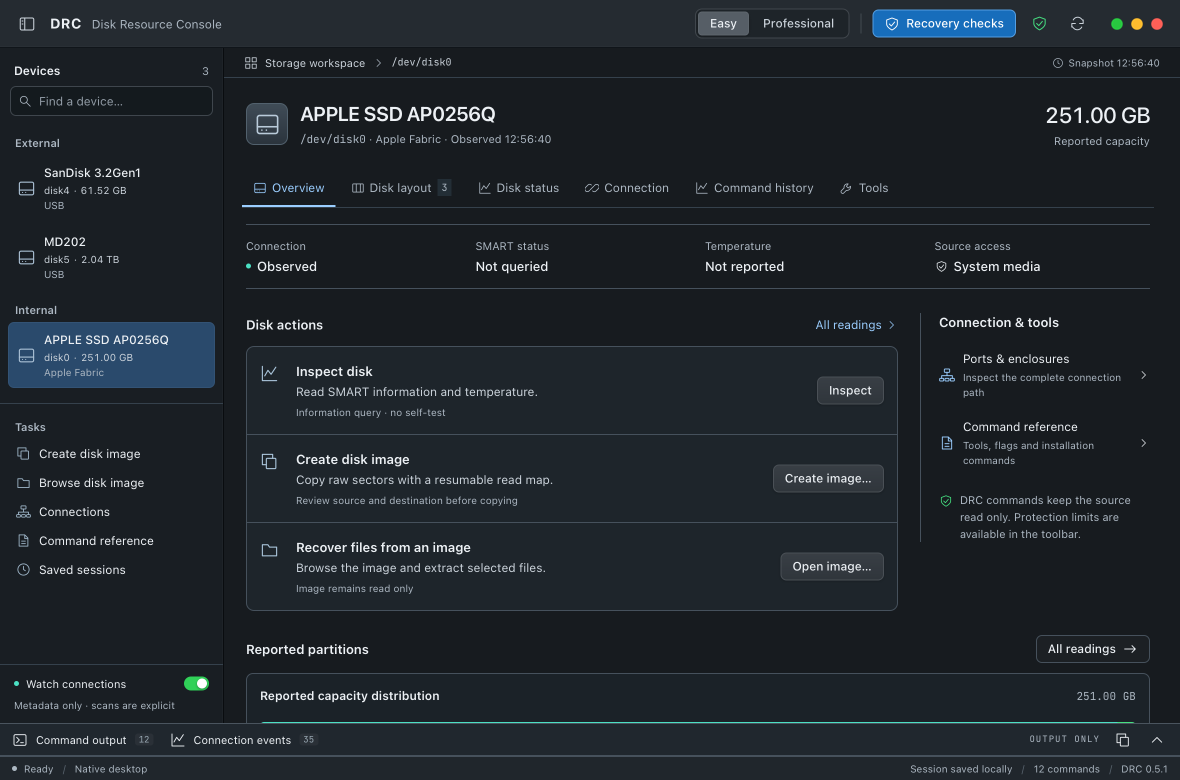
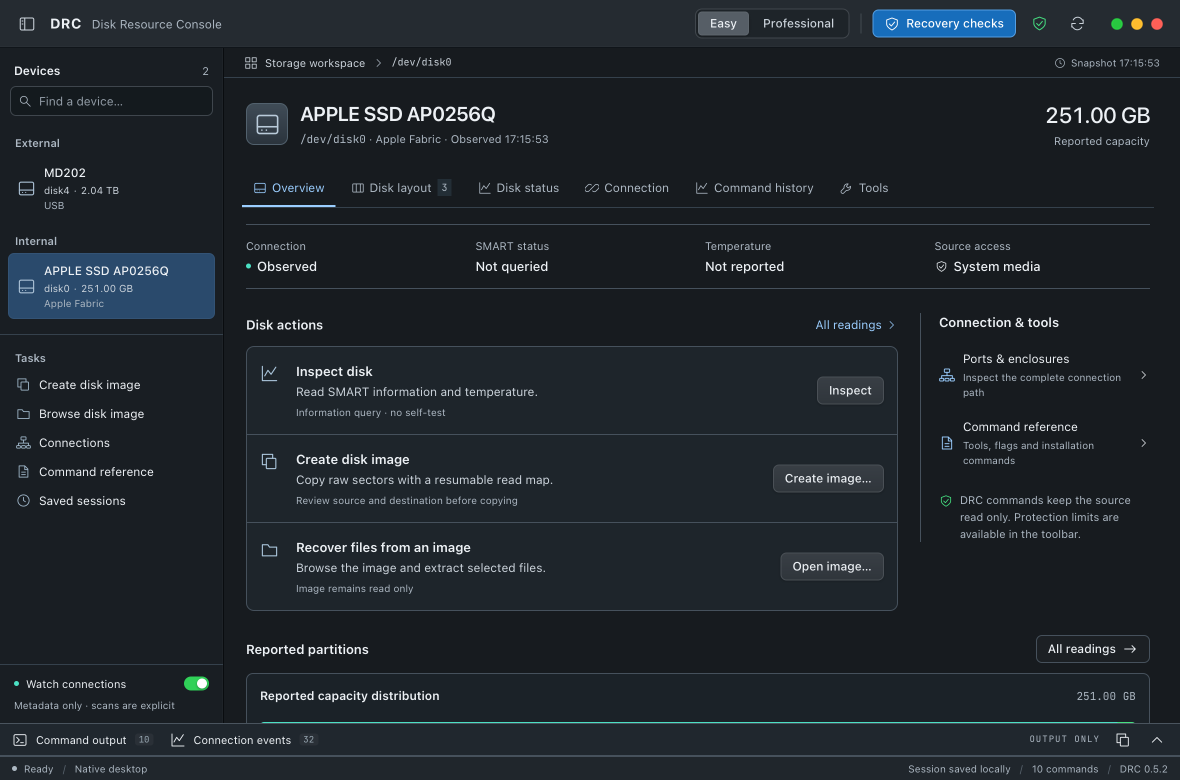
Release v0.5.2

diff --git a/README.md b/README.md
@@ -4,7 +4,7 @@
   <p><strong>Disk Resource Console</strong></p>
   <p>Disk inspection, raw imaging and file recovery.</p>
   <p>
-    <a href="package.json"><img src="https://img.shields.io/static/v1?label=Source&amp;message=v0.5.1&amp;color=blue&amp;style=flat" alt="Source v0.5.1" /></a>
+    <a href="package.json"><img src="https://img.shields.io/static/v1?label=Source&amp;message=v0.5.2&amp;color=blue&amp;style=flat" alt="Source v0.5.2" /></a>
     <a href="#install"><img src="https://img.shields.io/static/v1?label=macOS&amp;message=13%2B&amp;color=000000&amp;style=flat&amp;logo=apple&amp;logoColor=white" alt="macOS 13+" /></a>
     <a href="docs/LINUX-INSTALL.md"><img src="https://img.shields.io/static/v1?label=Linux&amp;message=Debian+%2F+Fedora&amp;color=FCC624&amp;style=flat&amp;logo=linux&amp;logoColor=black" alt="Linux Debian / Fedora" /></a>
     <a href="LICENSE"><img src="https://img.shields.io/static/v1?label=License&amp;message=GPL+v3&amp;color=blue&amp;style=flat" alt="License GPL v3" /></a>
